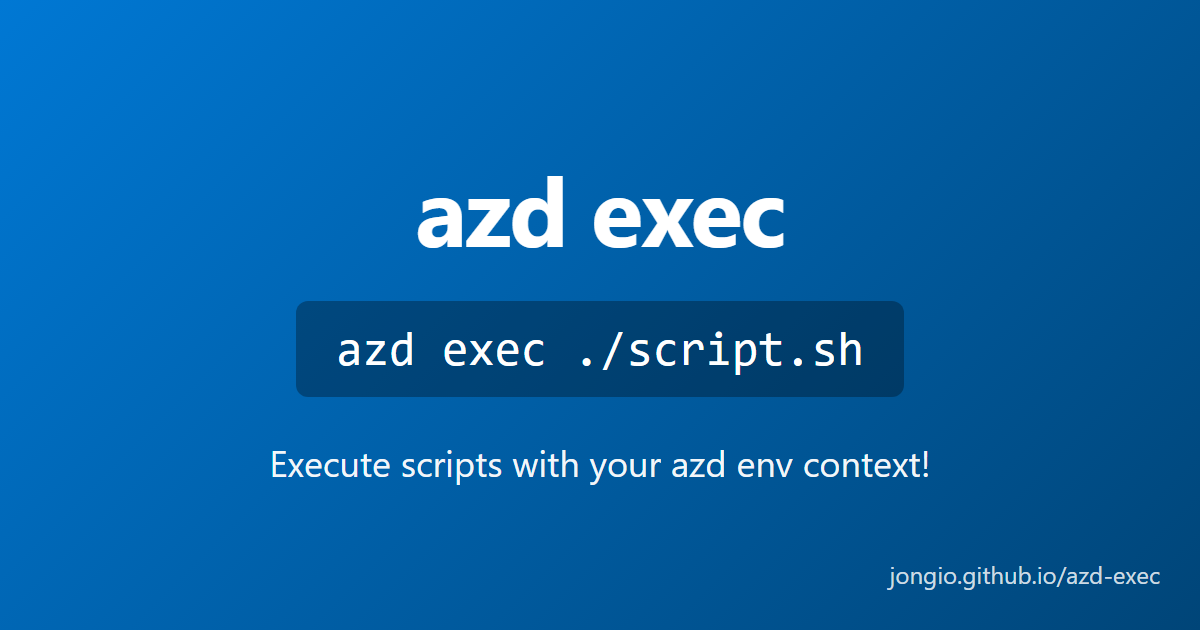
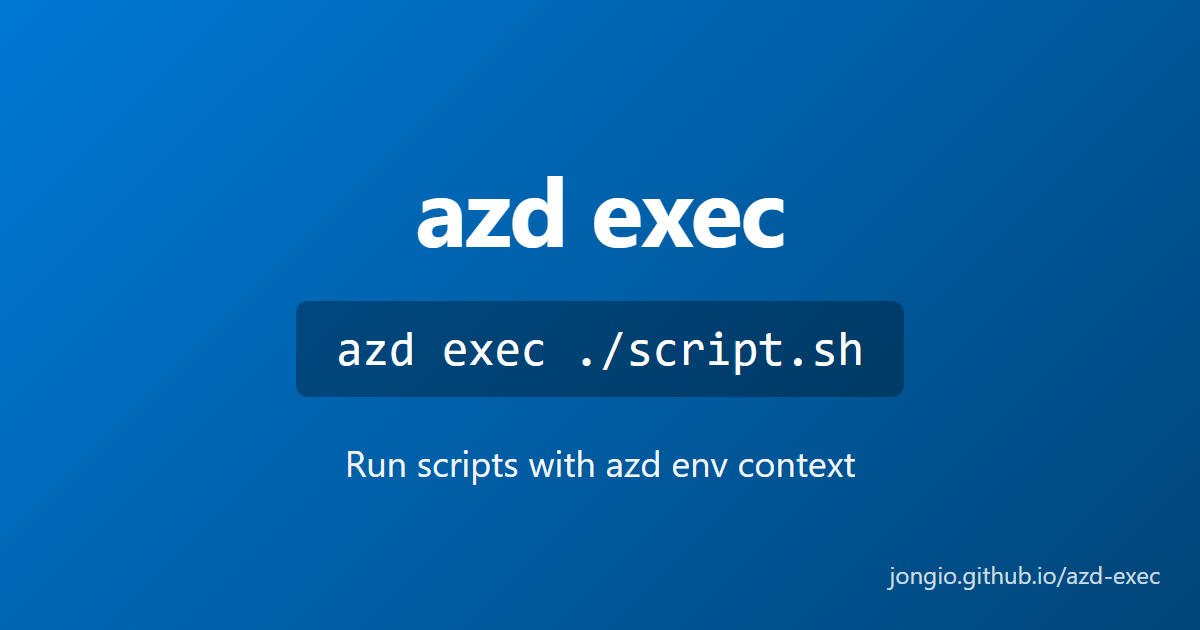
Deploy production website

Changed region(s): [[0.2158, 0.6937, 0.7708, 0.7841]]

diff --git a/reference/changelog/index.html b/reference/changelog/index.html
@@ -26,7 +26,7 @@ All notable changes to azd exec are documented here.
 This page is auto-generated from
 <a href="https://github.com/jongio/azd-exec/blob/main/cli/CHANGELOG.md" target="_blank" rel="noopener noreferrer" data-astro-cid-ng6277df>
 cli/CHANGELOG.md
-</a> </p> </div> <div class="content" data-astro-cid-ng6277df> <section class="release" data-astro-cid-ng6277df> <div class="release-header" data-astro-cid-ng6277df> <h2 class="version" data-astro-cid-ng6277df>0.2.25</h2> <span class="date" data-astro-cid-ng6277df>2026-01-08</span> </div> <div class="changes" data-astro-cid-ng6277df></div> </section> <section class="release" data-astro-cid-ng6277df> <div class="release-header" data-astro-cid-ng6277df> <h2 class="version" data-astro-cid-ng6277df>0.2.24</h2> <span class="date" data-astro-cid-ng6277df>2026-01-08</span> </div> <div class="changes" data-astro-cid-ng6277df></div> </section> <section class="release" data-astro-cid-ng6277df> <div class="release-header" data-astro-cid-ng6277df> <h2 class="version" data-astro-cid-ng6277df>0.2.23</h2> <span class="date" data-astro-cid-ng6277df>2026-01-08</span> </div> <div class="changes" data-astro-cid-ng6277df></div> </section> <section class="release" data-astro-cid-ng6277df> <div class="release-header" data-astro-cid-ng6277df> <h2 class="version" data-astro-cid-ng6277df>0.2.22</h2> <span class="date" data-astro-cid-ng6277df>2026-01-08</span> </div> <div class="changes" data-astro-cid-ng6277df></div> </section> <section class="release" data-astro-cid-ng6277df> <div class="release-header" data-astro-cid-ng6277df> <h2 class="version" data-astro-cid-ng6277df>0.2.21</h2> <span class="date" data-astro-cid-ng6277df>2026-01-08</span> </div> <div class="changes" data-astro-cid-ng6277df></div> </section> <section class="release" data-astro-cid-ng6277df> <div class="release-header" data-astro-cid-ng6277df> <h2 class="version" data-astro-cid-ng6277df>0.2.20</h2> <span class="date" data-astro-cid-ng6277df>2026-01-08</span> </div> <div class="changes" data-astro-cid-ng6277df></div> </section> <section class="release" data-astro-cid-ng6277df> <div class="release-header" data-astro-cid-ng6277df> <h2 class="version" data-astro-cid-ng6277df>0.2.19</h2> <span class="date" data-astro-cid-ng6277df>2026-01-08</span> </div> <div class="changes" data-astro-cid-ng6277df></div> </section> <section class="release" data-astro-cid-ng6277df> <div class="release-header" data-astro-cid-ng6277df> <h2 class="version" data-astro-cid-ng6277df>0.2.18</h2> <span class="date" data-astro-cid-ng6277df>2026-01-08</span> </div> <div class="changes" data-astro-cid-ng6277df></div> </section> <section class="release" data-astro-cid-ng6277df> <div class="release-header" data-astro-cid-ng6277df> <h2 class="version" data-astro-cid-ng6277df>0.2.17</h2> <span class="date" data-astro-cid-ng6277df>2025-12-24</span> </div> <div class="changes" data-astro-cid-ng6277df></div> </section> <section class="release" data-astro-cid-ng6277df> <div class="release-header" data-astro-cid-ng6277df> <h2 class="version" data-astro-cid-ng6277df>0.2.16</h2> <span class="date" data-astro-cid-ng6277df>2025-12-24</span> </div> <div class="changes" data-astro-cid-ng6277df></div> </section> <section class="release" data-astro-cid-ng6277df> <div class="release-header" data-astro-cid-ng6277df> <h2 class="version" data-astro-cid-ng6277df>0.2.15</h2> <span class="date" data-astro-cid-ng6277df>2025-12-23</span> </div> <div class="changes" data-astro-cid-ng6277df></div> </section> <section class="release" data-astro-cid-ng6277df> <div class="release-header" data-astro-cid-ng6277df> <h2 class="version" data-astro-cid-ng6277df>0.2.14</h2> <span class="date" data-astro-cid-ng6277df>2025-12-23</span> </div> <div class="changes" data-astro-cid-ng6277df></div> </section> <section class="release" data-astro-cid-ng6277df> <div class="release-header" data-astro-cid-ng6277df> <h2 class="version" data-astro-cid-ng6277df>0.2.13</h2> <span class="date" data-astro-cid-ng6277df>2025-12-23</span> </div> <div class="changes" data-astro-cid-ng6277df></div> </section> <section class="release" data-astro-cid-ng6277df> <div class="release-header" data-astro-cid-ng6277df> <h2 class="version" data-astro-cid-ng6277df>0.2.12</h2> <span class="date" data-astro-cid-ng6277df>2025-12-23</span> </div> <div class="changes" data-astro-cid-ng6277df></div> </section> <section class="release" data-astro-cid-ng6277df> <div class="release-header" data-astro-cid-ng6277df> <h2 class="version" data-astro-cid-ng6277df>0.2.11</h2> <span class="date" data-astro-cid-ng6277df>2025-12-23</span> </div> <div class="changes" data-astro-cid-ng6277df></div> </section> <section class="release" data-astro-cid-ng6277df> <div class="release-header" data-astro-cid-ng6277df> <h2 class="version" data-astro-cid-ng6277df>0.2.10</h2> <span class="date" data-astro-cid-ng6277df>2025-12-23</span> </div> <div class="changes" data-astro-cid-ng6277df></div> </section> <section class="release" data-astro-cid-ng6277df> <div class="release-header" data-astro-cid-ng6277df> <h2 class="version" data-astro-cid-ng6277df>0.2.9</h2> <span class="date" data-astro-cid-ng6277df>2025-12-23</span> </div> <div class="changes" data-astro-cid-ng6277df></div> </section> <section class="release" data-astro-cid-ng6277df> <div class="release-header" data-astro-cid-ng6277df> <h2 class="version" data-astro-cid-ng6277df>0.2.8</h2> <span class="date" data-astro-cid-ng6277df>2025-12-23</span> </div> <div class="changes" data-astro-cid-ng6277df></div> </section> <section class="release" data-astro-cid-ng6277df> <div class="release-header" data-astro-cid-ng6277df> <h2 class="version" data-astro-cid-ng6277df>0.2.7</h2> <span class="date" data-astro-cid-ng6277df>2025-12-23</span> </div> <div class="changes" data-astro-cid-ng6277df></div> </section> <section class="release" data-astro-cid-ng6277df> <div class="release-header" data-astro-cid-ng6277df> <h2 class="version" data-astro-cid-ng6277df>0.2.6</h2> <span class="date" data-astro-cid-ng6277df>2025-12-23</span> </div> <div class="changes" data-astro-cid-ng6277df></div> </section> <section class="release" data-astro-cid-ng6277df> <div class="release-header" data-astro-cid-ng6277df> <h2 class="version" data-astro-cid-ng6277df>0.2.5</h2> <span class="date" data-astro-cid-ng6277df>2025-12-23</span> </div> <div class="changes" data-astro-cid-ng6277df></div> </section> <section class="release" data-astro-cid-ng6277df> <div class="release-header" data-astro-cid-ng6277df> <h2 class="version" data-astro-cid-ng6277df>0.2.4</h2> <span class="date" data-astro-cid-ng6277df>2025-12-23</span> </div> <div class="changes" data-astro-cid-ng6277df></div> </section> <section class="release" data-astro-cid-ng6277df> <div class="release-header" data-astro-cid-ng6277df> <h2 class="version" data-astro-cid-ng6277df>0.2.3</h2> <span class="date" data-astro-cid-ng6277df>2025-12-23</span> </div> <div class="changes" data-astro-cid-ng6277df></div> </section> <section class="release" data-astro-cid-ng6277df> <div class="release-header" data-astro-cid-ng6277df> <h2 class="version" data-astro-cid-ng6277df>0.2.2</h2> <span class="date" data-astro-cid-ng6277df>2025-12-23</span> </div> <div class="changes" data-astro-cid-ng6277df></div> </section> <section class="release" data-astro-cid-ng6277df> <div class="release-header" data-astro-cid-ng6277df> <h2 class="version" data-astro-cid-ng6277df>0.2.1</h2> <span class="date" data-astro-cid-ng6277df>2025-12-23</span> </div> <div class="changes" data-astro-cid-ng6277df></div> </section> <section class="release" data-astro-cid-ng6277df> <div class="release-header" data-astro-cid-ng6277df> <h2 class="version" data-astro-cid-ng6277df>0.1.0</h2> <span class="date" data-astro-cid-ng6277df>2025-12-19</span> </div> <div class="changes" data-astro-cid-ng6277df> <h3 data-astro-cid-ng6277df><span class="badge badge-added" data-astro-cid-ng6277df>Added</span> New Features</h3> <ul data-astro-cid-ng6277df> <li data-astro-cid-ng6277df>Initial release of azd exec extension</li> <li data-astro-cid-ng6277df>Execute scripts with full access to azd environment variables and context</li> <li data-astro-cid-ng6277df>Automatic shell detection (bash, sh, zsh, pwsh, powershell, cmd)</li> <li data-astro-cid-ng6277df>Script arguments support with `--` separator</li> <li data-astro-cid-ng6277df>Working directory control with `--cwd` flag</li> <li data-astro-cid-ng6277df>Interactive mode for scripts requiring user input</li> <li data-astro-cid-ng6277df>Comprehensive unit tests and integration tests</li> <li data-astro-cid-ng6277df>Security scanning with CodeQL and gosec</li> <li data-astro-cid-ng6277df>Multi-platform support (Windows, macOS, Linux)</li> <li data-astro-cid-ng6277df>Backward compatibility alias (`azd script` to `azd exec`)</li> <li data-astro-cid-ng6277df>`azd exec` - Execute script files with azd context</li> <li data-astro-cid-ng6277df>`azd exec version` - Display extension version</li> </ul> </div> </section> </div> </div>  </article> <!-- Page Navigation (Prev/Next) -->  </main> </div> <!-- Footer --> <footer class="footer" data-astro-cid-sz7xmlte> <div class="footer-container" data-astro-cid-sz7xmlte> <div class="footer-grid" data-astro-cid-sz7xmlte> <div class="footer-section" data-astro-cid-sz7xmlte> <h3 class="footer-heading" data-astro-cid-sz7xmlte>Documentation</h3> <ul class="footer-links" data-astro-cid-sz7xmlte> <li data-astro-cid-sz7xmlte><a href="/azd-exec/getting-started" data-astro-cid-sz7xmlte>Getting Started</a></li> <li data-astro-cid-sz7xmlte><a href="/azd-exec/examples" data-astro-cid-sz7xmlte>Examples</a></li> <li data-astro-cid-sz7xmlte><a href="/azd-exec/reference/cli/" data-astro-cid-sz7xmlte>CLI Reference</a></li> <li data-astro-cid-sz7xmlte><a href="/azd-exec/security" data-astro-cid-sz7xmlte>Security</a></li> </ul> </div> <div class="footer-section" data-astro-cid-sz7xmlte> <h3 class="footer-heading" data-astro-cid-sz7xmlte>Resources</h3> <ul class="footer-links" data-astro-cid-sz7xmlte> <li data-astro-cid-sz7xmlte><a href="https://github.com/jongio/azd-exec" target="_blank" rel="noopener noreferrer" data-astro-cid-sz7xmlte>GitHub</a></li> <li data-astro-cid-sz7xmlte><a href="https://github.com/jongio/azd-exec/blob/main/CONTRIBUTING.md" target="_blank" rel="noopener noreferrer" data-astro-cid-sz7xmlte>Contributing</a></li> <li data-astro-cid-sz7xmlte><a href="https://github.com/jongio/azd-exec/blob/main/LICENSE" target="_blank" rel="noopener noreferrer" data-astro-cid-sz7xmlte>License</a></li> <li data-astro-cid-sz7xmlte><a href="https://learn.microsoft.com/azure/developer/azure-developer-cli/" target="_blank" rel="noopener noreferrer" data-astro-cid-sz7xmlte>Azure Developer CLI</a></li> </ul> </div> <div class="footer-section" data-astro-cid-sz7xmlte> <h3 class="footer-heading" data-astro-cid-sz7xmlte>Community</h3> <ul class="footer-links" data-astro-cid-sz7xmlte> <li data-astro-cid-sz7xmlte><a href="https://github.com/jongio/azd-exec/issues" target="_blank" rel="noopener noreferrer" data-astro-cid-sz7xmlte>Report Issue</a></li> <li data-astro-cid-sz7xmlte><a href="https://github.com/jongio/azd-exec/discussions" target="_blank" rel="noopener noreferrer" data-astro-cid-sz7xmlte>Discussions</a></li> <li data-astro-cid-sz7xmlte><a href="/azd-exec/reference/changelog/" data-astro-cid-sz7xmlte>Changelog</a></li> </ul> </div> </div> <div class="footer-bottom" data-astro-cid-sz7xmlte> <p class="footer-copyright" data-astro-cid-sz7xmlte>
+</a> </p> </div> <div class="content" data-astro-cid-ng6277df> <section class="release" data-astro-cid-ng6277df> <div class="release-header" data-astro-cid-ng6277df> <h2 class="version" data-astro-cid-ng6277df>0.2.26</h2> <span class="date" data-astro-cid-ng6277df>2026-01-08</span> </div> <div class="changes" data-astro-cid-ng6277df></div> </section> <section class="release" data-astro-cid-ng6277df> <div class="release-header" data-astro-cid-ng6277df> <h2 class="version" data-astro-cid-ng6277df>0.2.25</h2> <span class="date" data-astro-cid-ng6277df>2026-01-08</span> </div> <div class="changes" data-astro-cid-ng6277df></div> </section> <section class="release" data-astro-cid-ng6277df> <div class="release-header" data-astro-cid-ng6277df> <h2 class="version" data-astro-cid-ng6277df>0.2.24</h2> <span class="date" data-astro-cid-ng6277df>2026-01-08</span> </div> <div class="changes" data-astro-cid-ng6277df></div> </section> <section class="release" data-astro-cid-ng6277df> <div class="release-header" data-astro-cid-ng6277df> <h2 class="version" data-astro-cid-ng6277df>0.2.23</h2> <span class="date" data-astro-cid-ng6277df>2026-01-08</span> </div> <div class="changes" data-astro-cid-ng6277df></div> </section> <section class="release" data-astro-cid-ng6277df> <div class="release-header" data-astro-cid-ng6277df> <h2 class="version" data-astro-cid-ng6277df>0.2.22</h2> <span class="date" data-astro-cid-ng6277df>2026-01-08</span> </div> <div class="changes" data-astro-cid-ng6277df></div> </section> <section class="release" data-astro-cid-ng6277df> <div class="release-header" data-astro-cid-ng6277df> <h2 class="version" data-astro-cid-ng6277df>0.2.21</h2> <span class="date" data-astro-cid-ng6277df>2026-01-08</span> </div> <div class="changes" data-astro-cid-ng6277df></div> </section> <section class="release" data-astro-cid-ng6277df> <div class="release-header" data-astro-cid-ng6277df> <h2 class="version" data-astro-cid-ng6277df>0.2.20</h2> <span class="date" data-astro-cid-ng6277df>2026-01-08</span> </div> <div class="changes" data-astro-cid-ng6277df></div> </section> <section class="release" data-astro-cid-ng6277df> <div class="release-header" data-astro-cid-ng6277df> <h2 class="version" data-astro-cid-ng6277df>0.2.19</h2> <span class="date" data-astro-cid-ng6277df>2026-01-08</span> </div> <div class="changes" data-astro-cid-ng6277df></div> </section> <section class="release" data-astro-cid-ng6277df> <div class="release-header" data-astro-cid-ng6277df> <h2 class="version" data-astro-cid-ng6277df>0.2.18</h2> <span class="date" data-astro-cid-ng6277df>2026-01-08</span> </div> <div class="changes" data-astro-cid-ng6277df></div> </section> <section class="release" data-astro-cid-ng6277df> <div class="release-header" data-astro-cid-ng6277df> <h2 class="version" data-astro-cid-ng6277df>0.2.17</h2> <span class="date" data-astro-cid-ng6277df>2025-12-24</span> </div> <div class="changes" data-astro-cid-ng6277df></div> </section> <section class="release" data-astro-cid-ng6277df> <div class="release-header" data-astro-cid-ng6277df> <h2 class="version" data-astro-cid-ng6277df>0.2.16</h2> <span class="date" data-astro-cid-ng6277df>2025-12-24</span> </div> <div class="changes" data-astro-cid-ng6277df></div> </section> <section class="release" data-astro-cid-ng6277df> <div class="release-header" data-astro-cid-ng6277df> <h2 class="version" data-astro-cid-ng6277df>0.2.15</h2> <span class="date" data-astro-cid-ng6277df>2025-12-23</span> </div> <div class="changes" data-astro-cid-ng6277df></div> </section> <section class="release" data-astro-cid-ng6277df> <div class="release-header" data-astro-cid-ng6277df> <h2 class="version" data-astro-cid-ng6277df>0.2.14</h2> <span class="date" data-astro-cid-ng6277df>2025-12-23</span> </div> <div class="changes" data-astro-cid-ng6277df></div> </section> <section class="release" data-astro-cid-ng6277df> <div class="release-header" data-astro-cid-ng6277df> <h2 class="version" data-astro-cid-ng6277df>0.2.13</h2> <span class="date" data-astro-cid-ng6277df>2025-12-23</span> </div> <div class="changes" data-astro-cid-ng6277df></div> </section> <section class="release" data-astro-cid-ng6277df> <div class="release-header" data-astro-cid-ng6277df> <h2 class="version" data-astro-cid-ng6277df>0.2.12</h2> <span class="date" data-astro-cid-ng6277df>2025-12-23</span> </div> <div class="changes" data-astro-cid-ng6277df></div> </section> <section class="release" data-astro-cid-ng6277df> <div class="release-header" data-astro-cid-ng6277df> <h2 class="version" data-astro-cid-ng6277df>0.2.11</h2> <span class="date" data-astro-cid-ng6277df>2025-12-23</span> </div> <div class="changes" data-astro-cid-ng6277df></div> </section> <section class="release" data-astro-cid-ng6277df> <div class="release-header" data-astro-cid-ng6277df> <h2 class="version" data-astro-cid-ng6277df>0.2.10</h2> <span class="date" data-astro-cid-ng6277df>2025-12-23</span> </div> <div class="changes" data-astro-cid-ng6277df></div> </section> <section class="release" data-astro-cid-ng6277df> <div class="release-header" data-astro-cid-ng6277df> <h2 class="version" data-astro-cid-ng6277df>0.2.9</h2> <span class="date" data-astro-cid-ng6277df>2025-12-23</span> </div> <div class="changes" data-astro-cid-ng6277df></div> </section> <section class="release" data-astro-cid-ng6277df> <div class="release-header" data-astro-cid-ng6277df> <h2 class="version" data-astro-cid-ng6277df>0.2.8</h2> <span class="date" data-astro-cid-ng6277df>2025-12-23</span> </div> <div class="changes" data-astro-cid-ng6277df></div> </section> <section class="release" data-astro-cid-ng6277df> <div class="release-header" data-astro-cid-ng6277df> <h2 class="version" data-astro-cid-ng6277df>0.2.7</h2> <span class="date" data-astro-cid-ng6277df>2025-12-23</span> </div> <div class="changes" data-astro-cid-ng6277df></div> </section> <section class="release" data-astro-cid-ng6277df> <div class="release-header" data-astro-cid-ng6277df> <h2 class="version" data-astro-cid-ng6277df>0.2.6</h2> <span class="date" data-astro-cid-ng6277df>2025-12-23</span> </div> <div class="changes" data-astro-cid-ng6277df></div> </section> <section class="release" data-astro-cid-ng6277df> <div class="release-header" data-astro-cid-ng6277df> <h2 class="version" data-astro-cid-ng6277df>0.2.5</h2> <span class="date" data-astro-cid-ng6277df>2025-12-23</span> </div> <div class="changes" data-astro-cid-ng6277df></div> </section> <section class="release" data-astro-cid-ng6277df> <div class="release-header" data-astro-cid-ng6277df> <h2 class="version" data-astro-cid-ng6277df>0.2.4</h2> <span class="date" data-astro-cid-ng6277df>2025-12-23</span> </div> <div class="changes" data-astro-cid-ng6277df></div> </section> <section class="release" data-astro-cid-ng6277df> <div class="release-header" data-astro-cid-ng6277df> <h2 class="version" data-astro-cid-ng6277df>0.2.3</h2> <span class="date" data-astro-cid-ng6277df>2025-12-23</span> </div> <div class="changes" data-astro-cid-ng6277df></div> </section> <section class="release" data-astro-cid-ng6277df> <div class="release-header" data-astro-cid-ng6277df> <h2 class="version" data-astro-cid-ng6277df>0.2.2</h2> <span class="date" data-astro-cid-ng6277df>2025-12-23</span> </div> <div class="changes" data-astro-cid-ng6277df></div> </section> <section class="release" data-astro-cid-ng6277df> <div class="release-header" data-astro-cid-ng6277df> <h2 class="version" data-astro-cid-ng6277df>0.2.1</h2> <span class="date" data-astro-cid-ng6277df>2025-12-23</span> </div> <div class="changes" data-astro-cid-ng6277df></div> </section> <section class="release" data-astro-cid-ng6277df> <div class="release-header" data-astro-cid-ng6277df> <h2 class="version" data-astro-cid-ng6277df>0.1.0</h2> <span class="date" data-astro-cid-ng6277df>2025-12-19</span> </div> <div class="changes" data-astro-cid-ng6277df> <h3 data-astro-cid-ng6277df><span class="badge badge-added" data-astro-cid-ng6277df>Added</span> New Features</h3> <ul data-astro-cid-ng6277df> <li data-astro-cid-ng6277df>Initial release of azd exec extension</li> <li data-astro-cid-ng6277df>Execute scripts with full access to azd environment variables and context</li> <li data-astro-cid-ng6277df>Automatic shell detection (bash, sh, zsh, pwsh, powershell, cmd)</li> <li data-astro-cid-ng6277df>Script arguments support with `--` separator</li> <li data-astro-cid-ng6277df>Working directory control with `--cwd` flag</li> <li data-astro-cid-ng6277df>Interactive mode for scripts requiring user input</li> <li data-astro-cid-ng6277df>Comprehensive unit tests and integration tests</li> <li data-astro-cid-ng6277df>Security scanning with CodeQL and gosec</li> <li data-astro-cid-ng6277df>Multi-platform support (Windows, macOS, Linux)</li> <li data-astro-cid-ng6277df>Backward compatibility alias (`azd script` to `azd exec`)</li> <li data-astro-cid-ng6277df>`azd exec` - Execute script files with azd context</li> <li data-astro-cid-ng6277df>`azd exec version` - Display extension version</li> </ul> </div> </section> </div> </div>  </article> <!-- Page Navigation (Prev/Next) -->  </main> </div> <!-- Footer --> <footer class="footer" data-astro-cid-sz7xmlte> <div class="footer-container" data-astro-cid-sz7xmlte> <div class="footer-grid" data-astro-cid-sz7xmlte> <div class="footer-section" data-astro-cid-sz7xmlte> <h3 class="footer-heading" data-astro-cid-sz7xmlte>Documentation</h3> <ul class="footer-links" data-astro-cid-sz7xmlte> <li data-astro-cid-sz7xmlte><a href="/azd-exec/getting-started" data-astro-cid-sz7xmlte>Getting Started</a></li> <li data-astro-cid-sz7xmlte><a href="/azd-exec/examples" data-astro-cid-sz7xmlte>Examples</a></li> <li data-astro-cid-sz7xmlte><a href="/azd-exec/reference/cli/" data-astro-cid-sz7xmlte>CLI Reference</a></li> <li data-astro-cid-sz7xmlte><a href="/azd-exec/security" data-astro-cid-sz7xmlte>Security</a></li> </ul> </div> <div class="footer-section" data-astro-cid-sz7xmlte> <h3 class="footer-heading" data-astro-cid-sz7xmlte>Resources</h3> <ul class="footer-links" data-astro-cid-sz7xmlte> <li data-astro-cid-sz7xmlte><a href="https://github.com/jongio/azd-exec" target="_blank" rel="noopener noreferrer" data-astro-cid-sz7xmlte>GitHub</a></li> <li data-astro-cid-sz7xmlte><a href="https://github.com/jongio/azd-exec/blob/main/CONTRIBUTING.md" target="_blank" rel="noopener noreferrer" data-astro-cid-sz7xmlte>Contributing</a></li> <li data-astro-cid-sz7xmlte><a href="https://github.com/jongio/azd-exec/blob/main/LICENSE" target="_blank" rel="noopener noreferrer" data-astro-cid-sz7xmlte>License</a></li> <li data-astro-cid-sz7xmlte><a href="https://learn.microsoft.com/azure/developer/azure-developer-cli/" target="_blank" rel="noopener noreferrer" data-astro-cid-sz7xmlte>Azure Developer CLI</a></li> </ul> </div> <div class="footer-section" data-astro-cid-sz7xmlte> <h3 class="footer-heading" data-astro-cid-sz7xmlte>Community</h3> <ul class="footer-links" data-astro-cid-sz7xmlte> <li data-astro-cid-sz7xmlte><a href="https://github.com/jongio/azd-exec/issues" target="_blank" rel="noopener noreferrer" data-astro-cid-sz7xmlte>Report Issue</a></li> <li data-astro-cid-sz7xmlte><a href="https://github.com/jongio/azd-exec/discussions" target="_blank" rel="noopener noreferrer" data-astro-cid-sz7xmlte>Discussions</a></li> <li data-astro-cid-sz7xmlte><a href="/azd-exec/reference/changelog/" data-astro-cid-sz7xmlte>Changelog</a></li> </ul> </div> </div> <div class="footer-bottom" data-astro-cid-sz7xmlte> <p class="footer-copyright" data-astro-cid-sz7xmlte>
 © 2026 azd exec. MIT License.
 </p> <p class="footer-built-with" data-astro-cid-sz7xmlte>
 Built with <a href="https://astro.build" target="_blank" rel="noopener noreferrer" data-astro-cid-sz7xmlte>Astro</a> </p> </div> </div> </footer>  </body></html> 

diff --git a/index.html b/index.html
@@ -1,4 +1,4 @@
-<!DOCTYPE html><html lang="en"> <head><meta charset="utf-8"><link rel="icon" type="image/svg+xml" href="/azd-exec/favicon.svg"><meta name="viewport" content="width=device-width, initial-scale=1.0"><meta name="generator" content="Astro v5.16.6"><title>azd exec | Execute scripts with Azure identity</title><meta name="description" content="Execute any script with full access to your Azure Developer CLI environment variables and Azure credentials. Seamlessly integrate Azure identity and Key Vault secrets into your automation workflows."><meta name="theme-color" content="#ffffff"><!-- Open Graph / Facebook / LinkedIn --><meta property="og:type" content="website"><meta property="og:url" content="https://jongio.github.io/azd-exec/"><meta property="og:title" content="azd exec | Execute scripts with Azure identity"><meta property="og:description" content="Execute any script with full access to your Azure Developer CLI environment variables and Azure credentials. Seamlessly integrate Azure identity and Key Vault secrets into your automation workflows."><meta property="og:image" content="https://jongio.github.io/azd-exec/og-image.png"><meta property="og:image:alt" content="azd exec - Execute scripts with Azure identity"><meta property="og:site_name" content="azd exec"><meta property="article:author" content="Jon Gallant"><meta property="article:published_time" content="2025-01-01T00:00:00Z"><!-- Twitter --><meta name="twitter:card" content="summary_large_image"><meta name="twitter:url" content="https://jongio.github.io/azd-exec/"><meta name="twitter:title" content="azd exec | Execute scripts with Azure identity"><meta name="twitter:description" content="Execute any script with full access to your Azure Developer CLI environment variables and Azure credentials. Seamlessly integrate Azure identity and Key Vault secrets into your automation workflows."><meta name="twitter:image" content="https://jongio.github.io/azd-exec/og-image.png"><meta name="twitter:image:alt" content="azd exec - Execute scripts with Azure identity"><meta name="twitter:creator" content="@jongallant"><!-- Prevent flash of wrong theme --><script>
+<!DOCTYPE html><html lang="en"> <head><meta charset="utf-8"><link rel="icon" type="image/svg+xml" href="/azd-exec/favicon.svg"><meta name="viewport" content="width=device-width, initial-scale=1.0"><meta name="generator" content="Astro v5.16.6"><title>azd exec | Execute scripts with Azure identity</title><meta name="description" content="azd exec - Run any script with azd environment and Azure credentials. Database migrations, setup automation, CI/CD workflows - with seamless Key Vault integration."><meta name="theme-color" content="#ffffff"><!-- Open Graph / Facebook / LinkedIn --><meta property="og:type" content="website"><meta property="og:url" content="https://jongio.github.io/azd-exec/"><meta property="og:title" content="azd exec | Execute scripts with Azure identity"><meta property="og:description" content="azd exec - Run any script with azd environment and Azure credentials. Database migrations, setup automation, CI/CD workflows - with seamless Key Vault integration."><meta property="og:image" content="https://jongio.github.io/azd-exec/og-image.png"><meta property="og:image:alt" content="azd exec - Execute scripts with Azure identity"><meta property="og:site_name" content="azd exec"><meta property="article:author" content="Jon Gallant"><meta property="article:published_time" content="2025-01-01T00:00:00Z"><!-- Twitter --><meta name="twitter:card" content="summary_large_image"><meta name="twitter:url" content="https://jongio.github.io/azd-exec/"><meta name="twitter:title" content="azd exec | Execute scripts with Azure identity"><meta name="twitter:description" content="azd exec - Run any script with azd environment and Azure credentials. Database migrations, setup automation, CI/CD workflows - with seamless Key Vault integration."><meta name="twitter:image" content="https://jongio.github.io/azd-exec/og-image.png"><meta name="twitter:image:alt" content="azd exec - Execute scripts with Azure identity"><meta name="twitter:creator" content="@jongallant"><!-- Prevent flash of wrong theme --><script>
       (function() {
         const stored = localStorage.getItem('azd-exec:theme');
         // Default to dark theme unless explicitly set to light
@@ -22,8 +22,8 @@
 Current theme: light
 </span> </div>  <script type="module">const r="azd-exec:theme";function a(){try{const e=localStorage.getItem(r);return e==="light"||e==="dark"?e:null}catch{return null}}function d(e){try{localStorage.setItem(r,e)}catch{}}function s(e){return e===null?"light":e}function l(e){document.documentElement.setAttribute("data-theme",e),document.documentElement.style.colorScheme=e;const t=document.querySelector('meta[name="theme-color"]');t&&t.setAttribute("content",e==="dark"?"#1e293b":"#ffffff");const n=document.querySelectorAll("[data-theme-label]"),u=e==="dark"?"Dark":"Light";n.forEach(o=>{o.textContent=u}),document.querySelectorAll("[data-theme-status]").forEach(o=>{o.textContent=`Theme changed to ${e} mode`})}function m(){const t=(a()||"light")==="light"?"dark":"light";d(t),l(t)}function c(){const e=a(),t=s(e);l(t),document.querySelectorAll("[data-theme-toggle]").forEach(n=>{n.addEventListener("click",m)})}document.readyState==="loading"?document.addEventListener("DOMContentLoaded",c):c();document.addEventListener("astro:after-swap",c);</script> </nav> <button class="mobile-menu-button" aria-label="Toggle menu" aria-expanded="false" aria-controls="mobile-menu" id="mobile-menu-toggle" data-astro-cid-3ef6ksr2> <svg width="24" height="24" viewBox="0 0 24 24" fill="none" stroke="currentColor" stroke-width="2" stroke-linecap="round" stroke-linejoin="round" data-astro-cid-3ef6ksr2> <line x1="3" y1="12" x2="21" y2="12" data-astro-cid-3ef6ksr2></line> <line x1="3" y1="6" x2="21" y2="6" data-astro-cid-3ef6ksr2></line> <line x1="3" y1="18" x2="21" y2="18" data-astro-cid-3ef6ksr2></line> </svg> </button> </div> <nav class="nav-mobile" id="mobile-menu" role="navigation" aria-label="Mobile navigation" data-astro-cid-3ef6ksr2> <a href="/azd-exec/" class="mobile-nav-link active" data-astro-cid-3ef6ksr2> Home </a><a href="/azd-exec/getting-started" class="mobile-nav-link " data-astro-cid-3ef6ksr2> Getting Started </a><a href="/azd-exec/examples" class="mobile-nav-link " data-astro-cid-3ef6ksr2> Examples </a><a href="/azd-exec/reference/cli/" class="mobile-nav-link " data-astro-cid-3ef6ksr2> CLI Reference </a><a href="/azd-exec/reference/changelog/" class="mobile-nav-link " data-astro-cid-3ef6ksr2> Changelog </a> <a href="https://github.com/jongio/azd-exec" target="_blank" rel="noopener noreferrer" class="mobile-nav-link" data-astro-cid-3ef6ksr2>
 GitHub
-</a> </nav> </header>  <script type="module">const e=document.getElementById("mobile-menu-toggle"),n=document.getElementById("mobile-menu");e?.addEventListener("click",()=>{const t=n?.classList.toggle("open");e?.setAttribute("aria-expanded",String(!!t))});</script> <!-- Main Layout Container --> <div class="layout-container"> <!-- Main Content --> <main id="main-content" class="layout-main" role="main"> <!-- Breadcrumb -->  <!-- Page Content --> <article class="layout-content">   <section class="hero" data-astro-cid-j7pv25f6> <div class="hero-container" data-astro-cid-j7pv25f6> <h1 class="hero-title" data-astro-cid-j7pv25f6>Execute Scripts with azd Environment Context</h1> <p class="hero-subtitle" data-astro-cid-j7pv25f6>
-Execute any script with full access to your Azure Developer CLI environment variables and Azure credentials.
+</a> </nav> </header>  <script type="module">const e=document.getElementById("mobile-menu-toggle"),n=document.getElementById("mobile-menu");e?.addEventListener("click",()=>{const t=n?.classList.toggle("open");e?.setAttribute("aria-expanded",String(!!t))});</script> <!-- Main Layout Container --> <div class="layout-container"> <!-- Main Content --> <main id="main-content" class="layout-main" role="main"> <!-- Breadcrumb -->  <!-- Page Content --> <article class="layout-content">   <section class="hero" data-astro-cid-j7pv25f6> <div class="hero-container" data-astro-cid-j7pv25f6> <h1 class="hero-title" data-astro-cid-j7pv25f6>Run Scripts with azd environment context</h1> <p class="hero-subtitle" data-astro-cid-j7pv25f6>
+Database migrations, setup automation, CI/CD workflows - with seamless access to Azure credentials and Key Vault secrets.
 </p> <div class="hero-cta" data-astro-cid-j7pv25f6> <a href="/azd-exec/getting-started" class="btn-primary" data-astro-cid-j7pv25f6>Get Started</a> <a href="https://github.com/jongio/azd-exec" class="btn-secondary" target="_blank" rel="noopener noreferrer" data-astro-cid-j7pv25f6>
 View on GitHub
 </a> </div> </div> </section>  <section class="security-warning" data-astro-cid-j7pv25f6> <div class="container" data-astro-cid-j7pv25f6> <div class="warning-box" data-astro-cid-j7pv25f6> <div class="warning-icon" data-astro-cid-j7pv25f6>⚠</div> <div class="warning-content" data-astro-cid-j7pv25f6> <h2 class="warning-title" data-astro-cid-j7pv25f6>Security Notice</h2> <p class="warning-text" data-astro-cid-j7pv25f6> <strong data-astro-cid-j7pv25f6>IMPORTANT:</strong> <code data-astro-cid-j7pv25f6>azd exec</code> executes scripts with <strong data-astro-cid-j7pv25f6>full access</strong> to your Azure credentials and environment.
